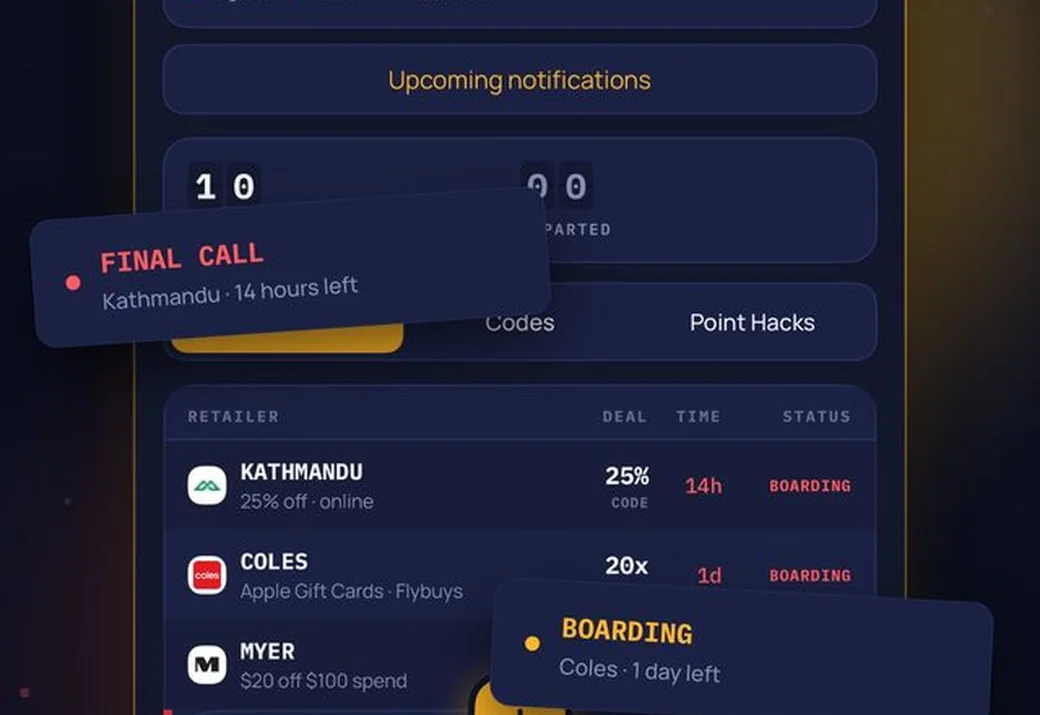
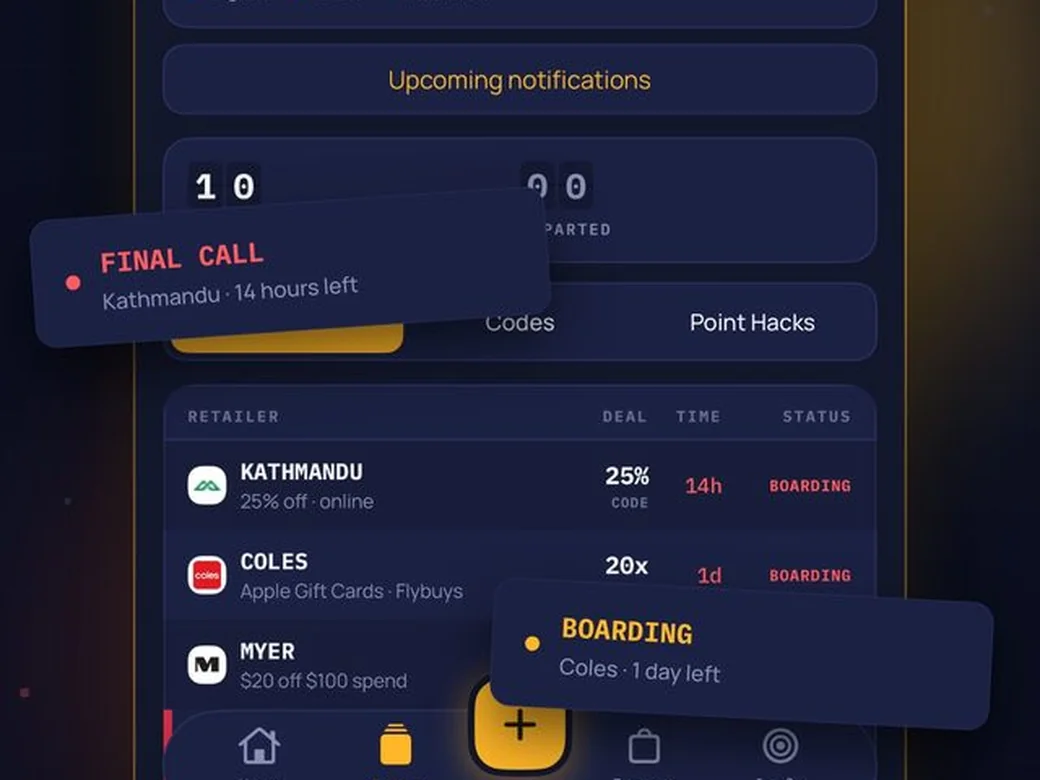
fix(apps): the anime Milli, not the plain mascot
The tile had milli-hero.png, which is the pill-bottle mascot DoseTrack's own
landing page uses. The anime Milli is a different piece of artwork and does not
live in this repo at all — it is in the iOS project, under
design-assets/milli-variants/. Copied the neon-city variant in: full face, both
peace signs, and a violet-and-orange palette that happens to sit exactly with
this page's accent.

The art frame moved from 16:11 to 4:3 to suit it. Milli's source is square, and
a 16:11 band through a square either clips her lid or her feet; 4:3 keeps all of
her. The DisPoint plate is re-cut to match, so the tiles stay identical.

Milli is written at WebP q76 — flat anime colour compresses hard, and q76 is
indistinguishable from q84 at 4x zoom for 26 KiB less. Tile art 123 KiB total.

77 e2e passed, 41 unit passed, 0 astro-check errors.

diff --git a/src/content/copy.ts b/src/content/copy.ts
@@ -276,8 +276,8 @@ export const APPS_PAGE = {
     art: {
       dosetrack: {
         src: '/assets/img/apps/dosetrack-milli.webp',
-        alt: 'Milli, the DoseTrack character, juggling tablets and capsules',
-        fit: 'contain',
+        alt: 'Milli, the DoseTrack character, in the app’s anime artwork',
+        fit: 'cover',
       },
       dispoint: {
         src: '/assets/img/apps/dispoint-stack.webp',
